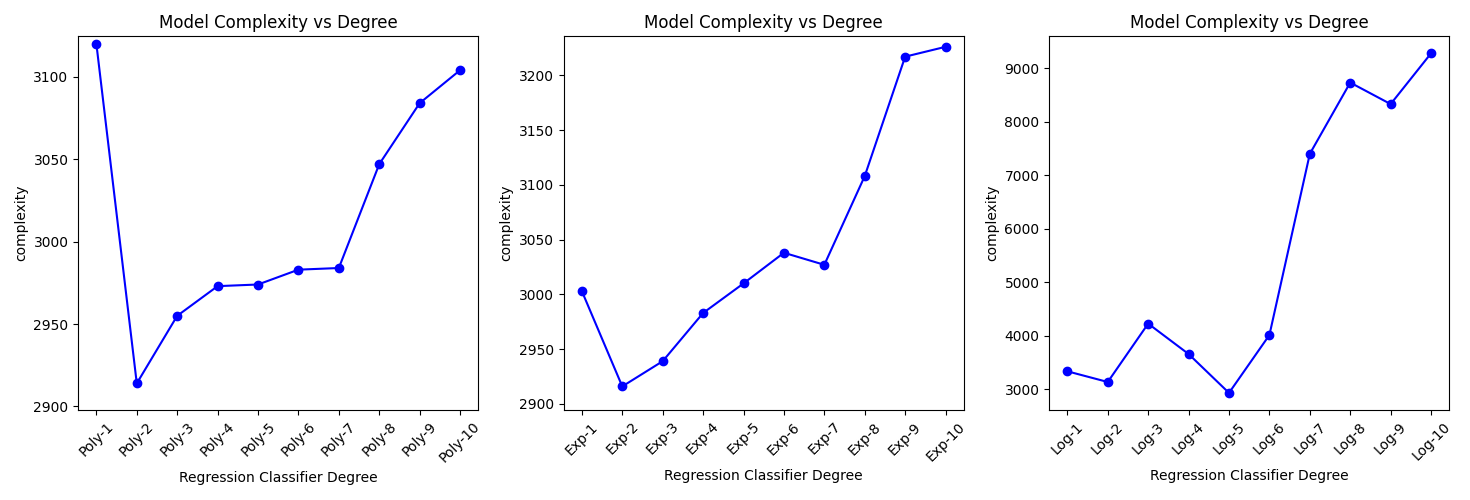
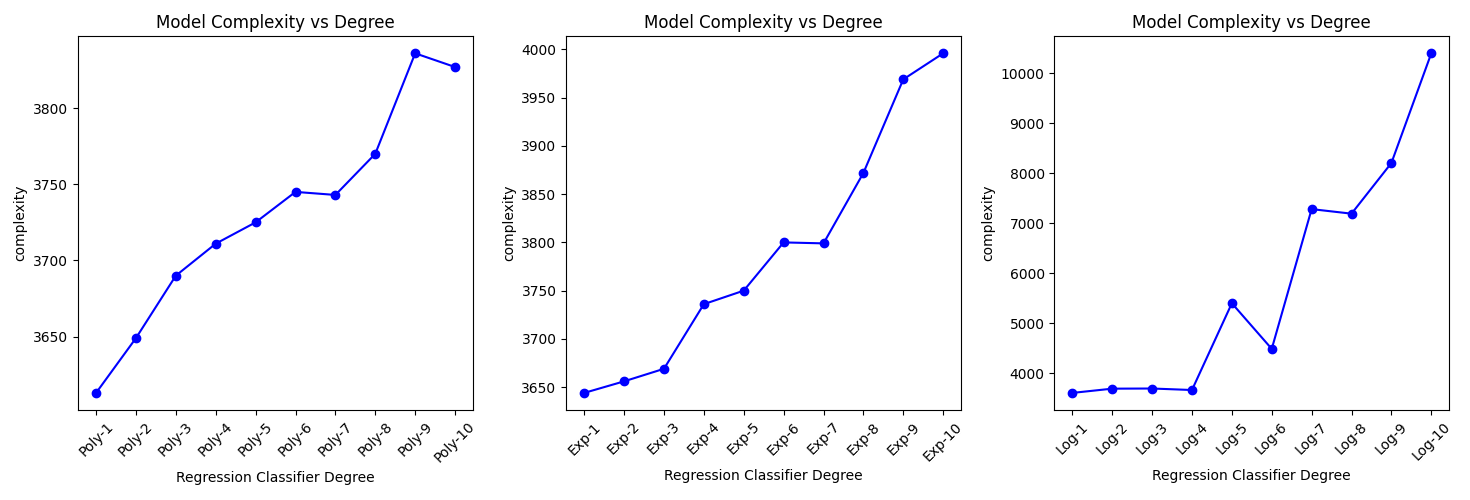
[DEV_MODEL]: Updated screenshots, Runner.py updated generated data

diff --git a/bin/Runner.py b/bin/Runner.py
@@ -78,8 +78,8 @@ def generate_synthetic_data(d):
     if d == 3:
         np.random.seed(0)
         x = np.random.rand(1000, 1) - 0.5
-        noise = np.random.randn(1000, 1) * 5
-        y = 1 + 2 * x + 3 * np.exp(x) ** 2 - 10 * np.exp(x) ** 3 + noise
+        noise = np.random.randn(1000, 1) * 10
+        y = 1 - 3 * x ** 2 - 3 * np.exp(x) ** 2 + noise
         return x, y
 
     if d == 4:
